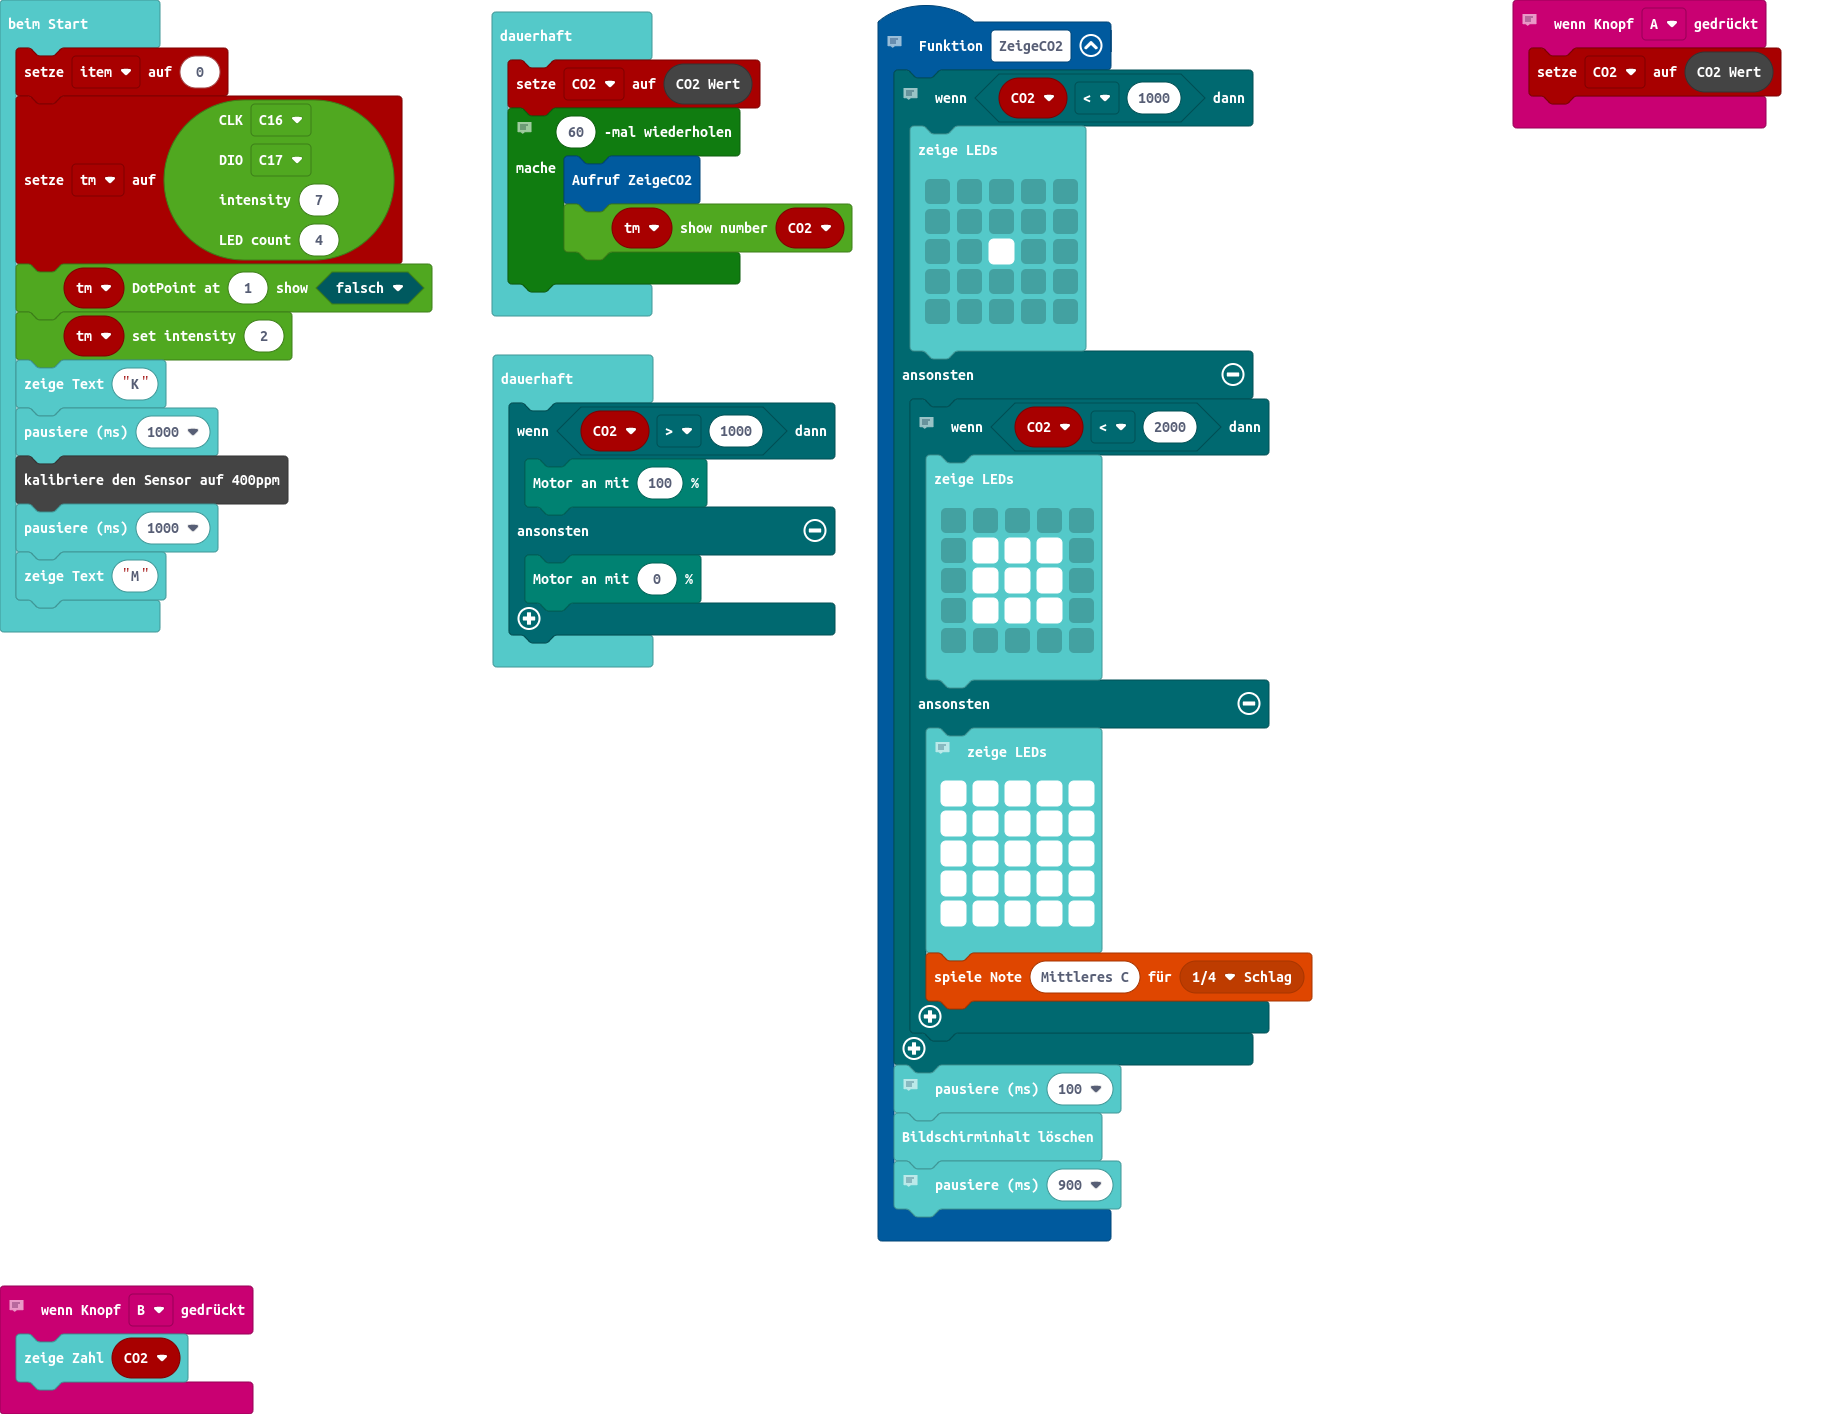
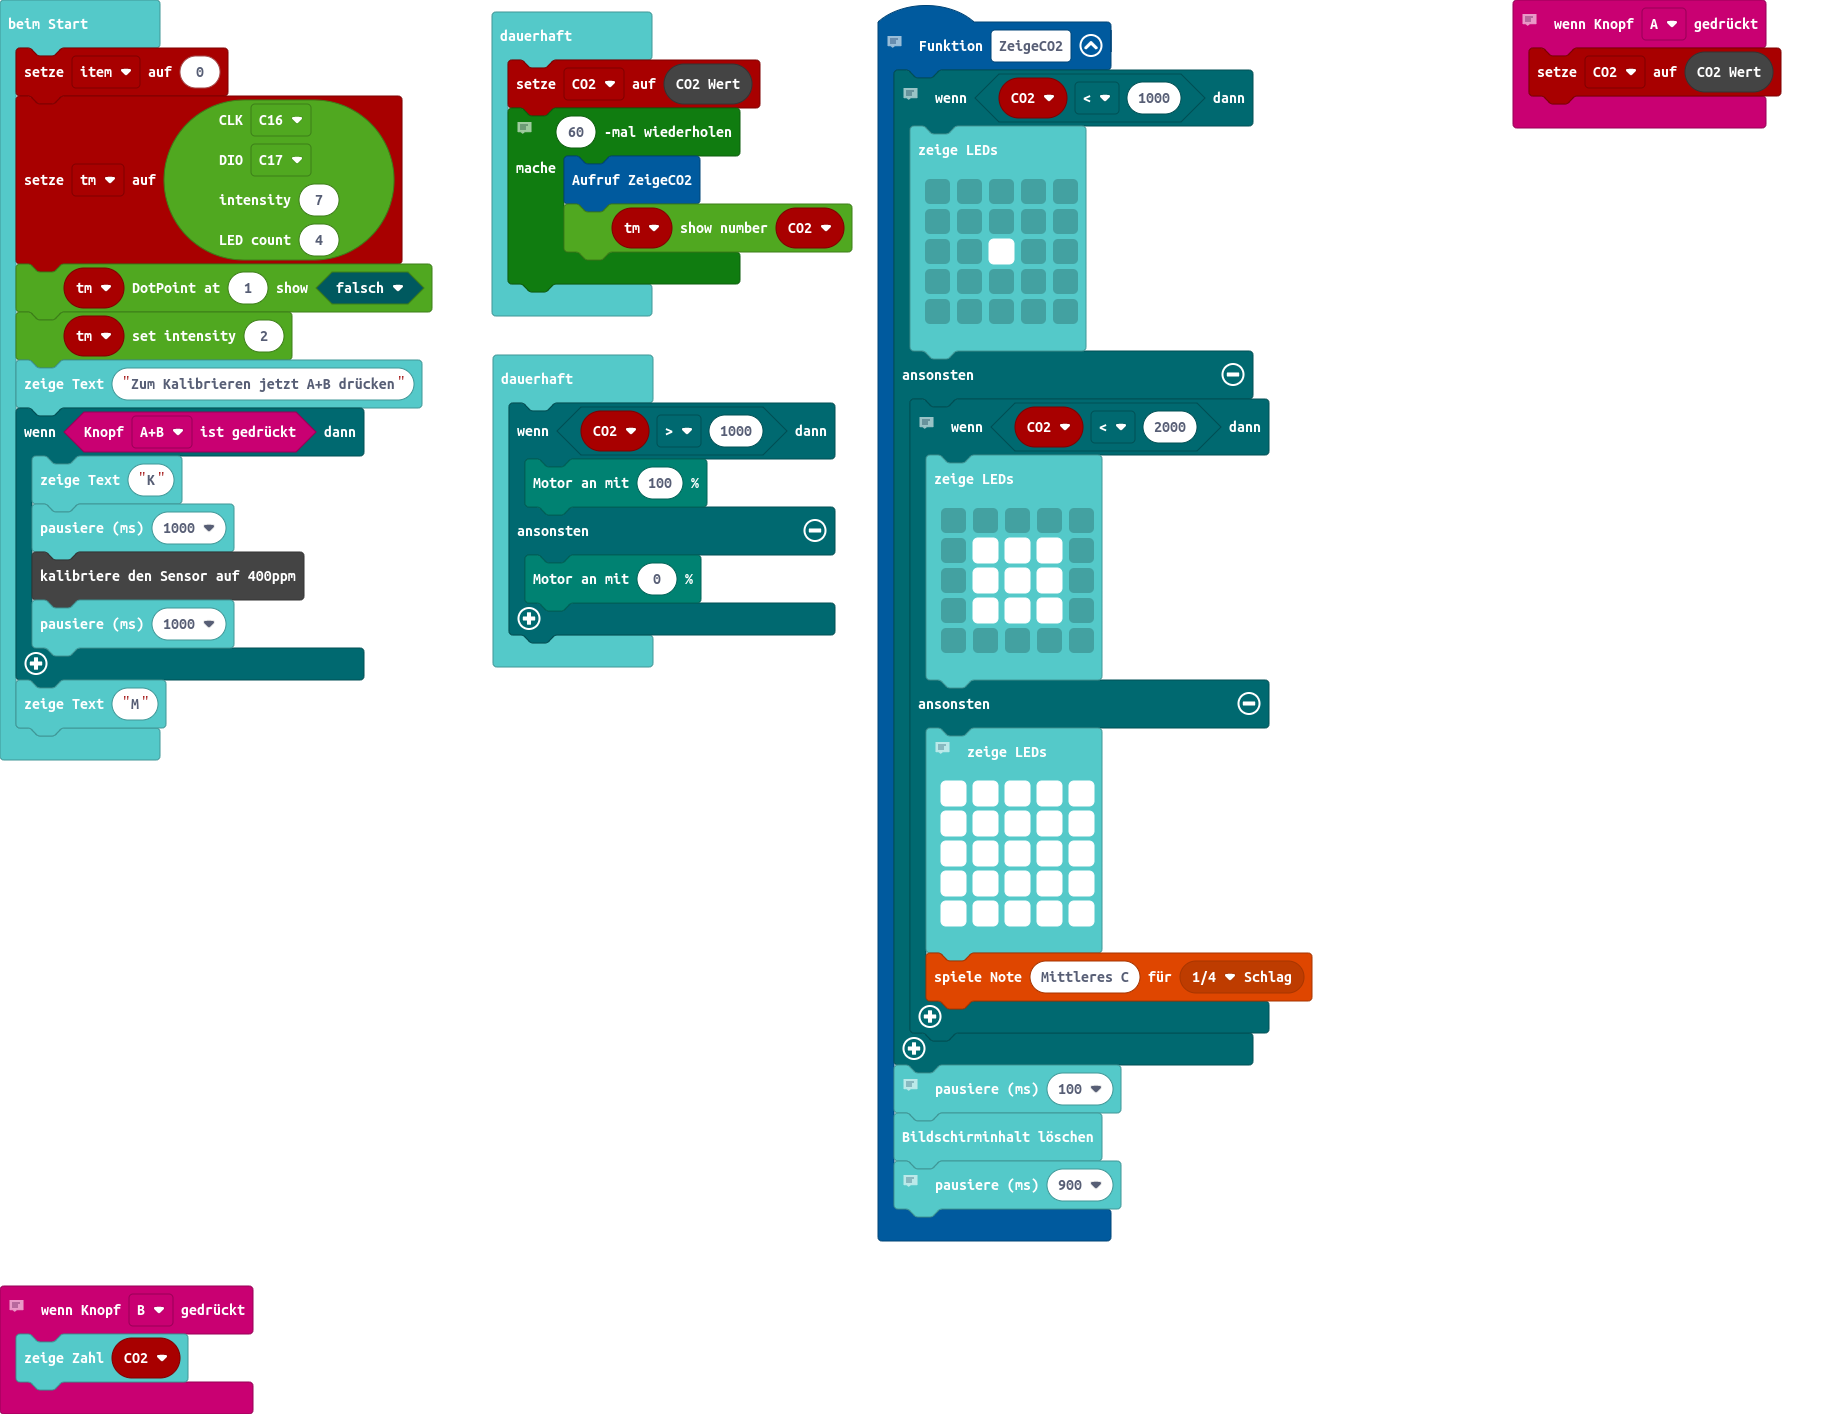
Aktualisiere main.blocks, main.ts

Changed region(s): [[0.0, 0.2489, 0.2488, 0.5601]]

diff --git a/main.ts b/main.ts
@@ -55,10 +55,13 @@ DigitalPin.C17,
 )
 tm.showDP(1, false)
 tm.intensity(2)
-basic.showString("K")
-basic.pause(1000)
-SCD30.setCalibration400ppm()
-basic.pause(1000)
+basic.showString("Zum Kalibrieren jetzt A+B drücken")
+if (input.buttonIsPressed(Button.AB)) {
+    basic.showString("K")
+    basic.pause(1000)
+    SCD30.setCalibration400ppm()
+    basic.pause(1000)
+}
 basic.showString("M")
 basic.forever(function () {
     CO2 = SCD30.readCO2()
